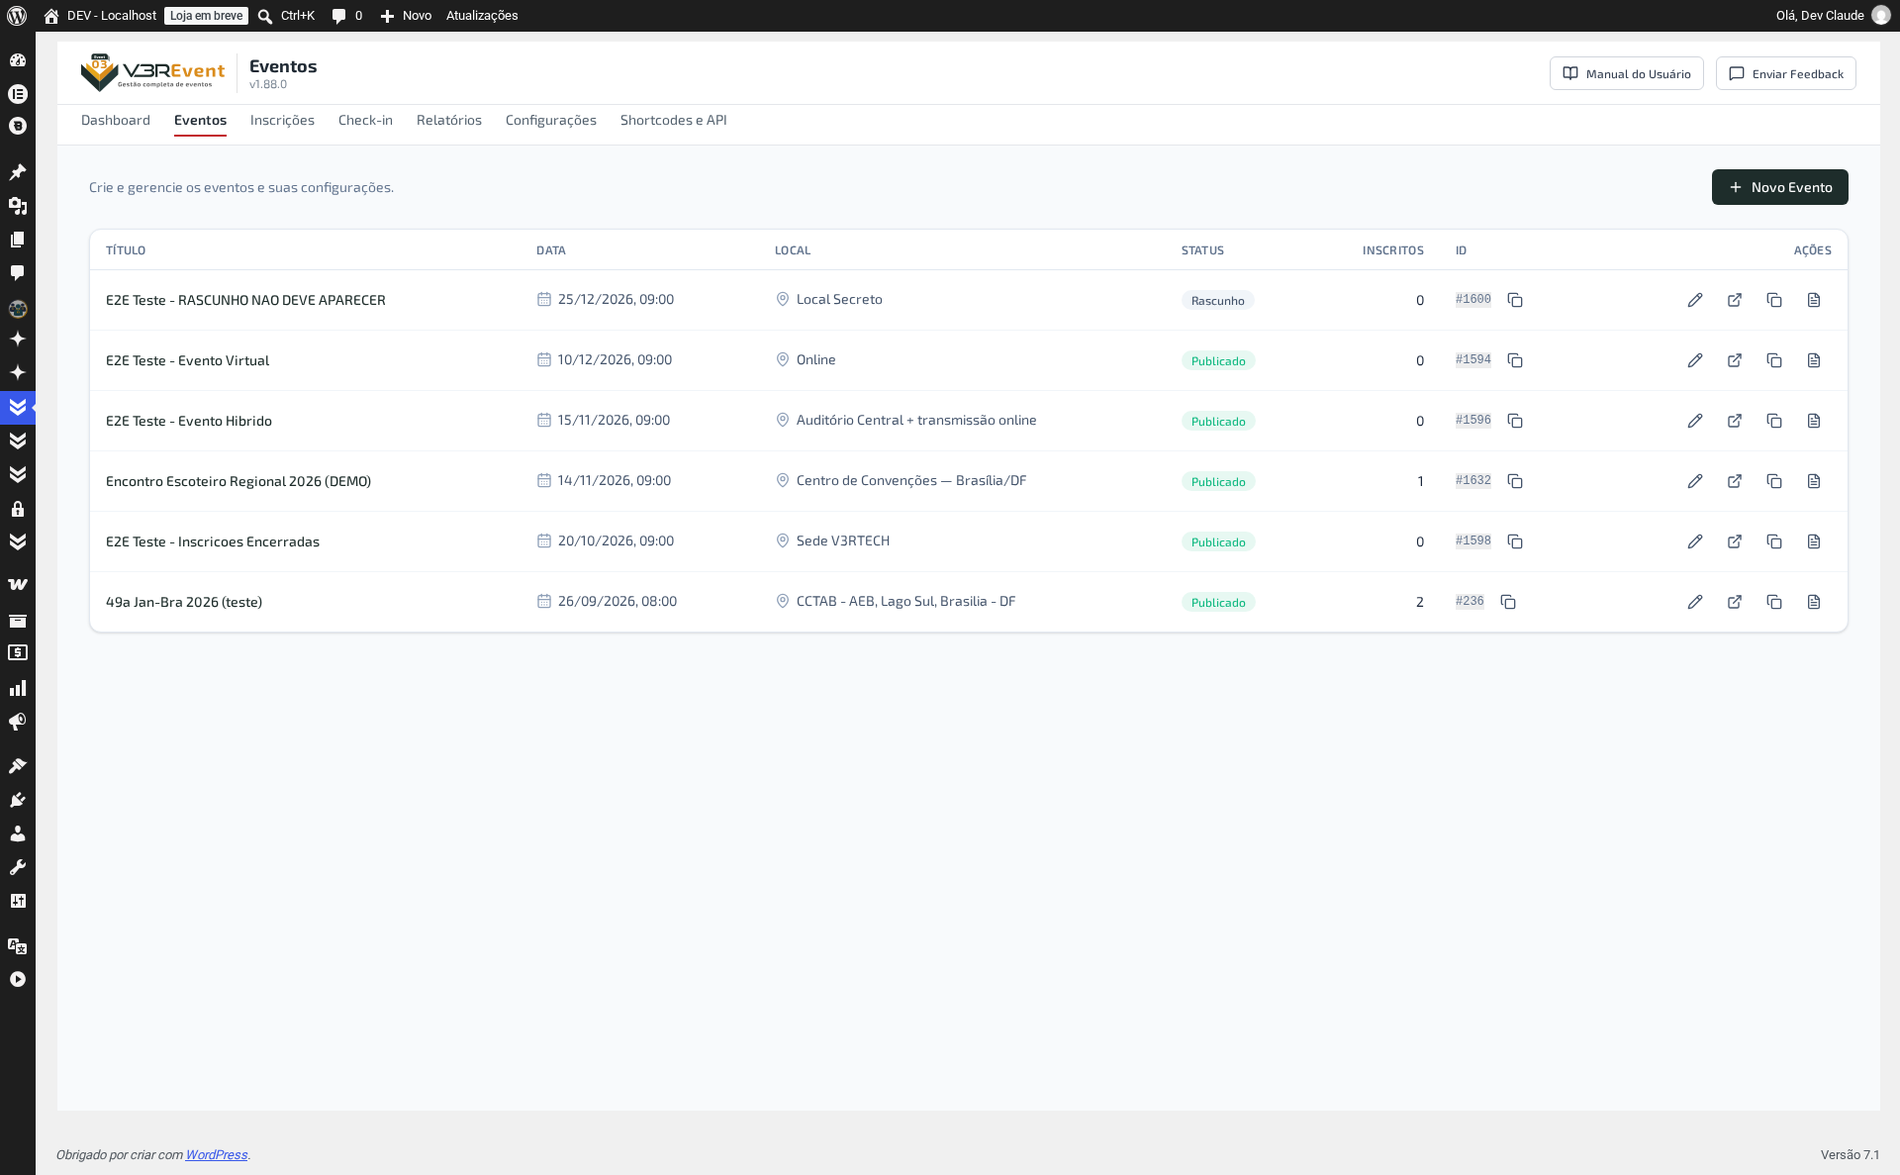
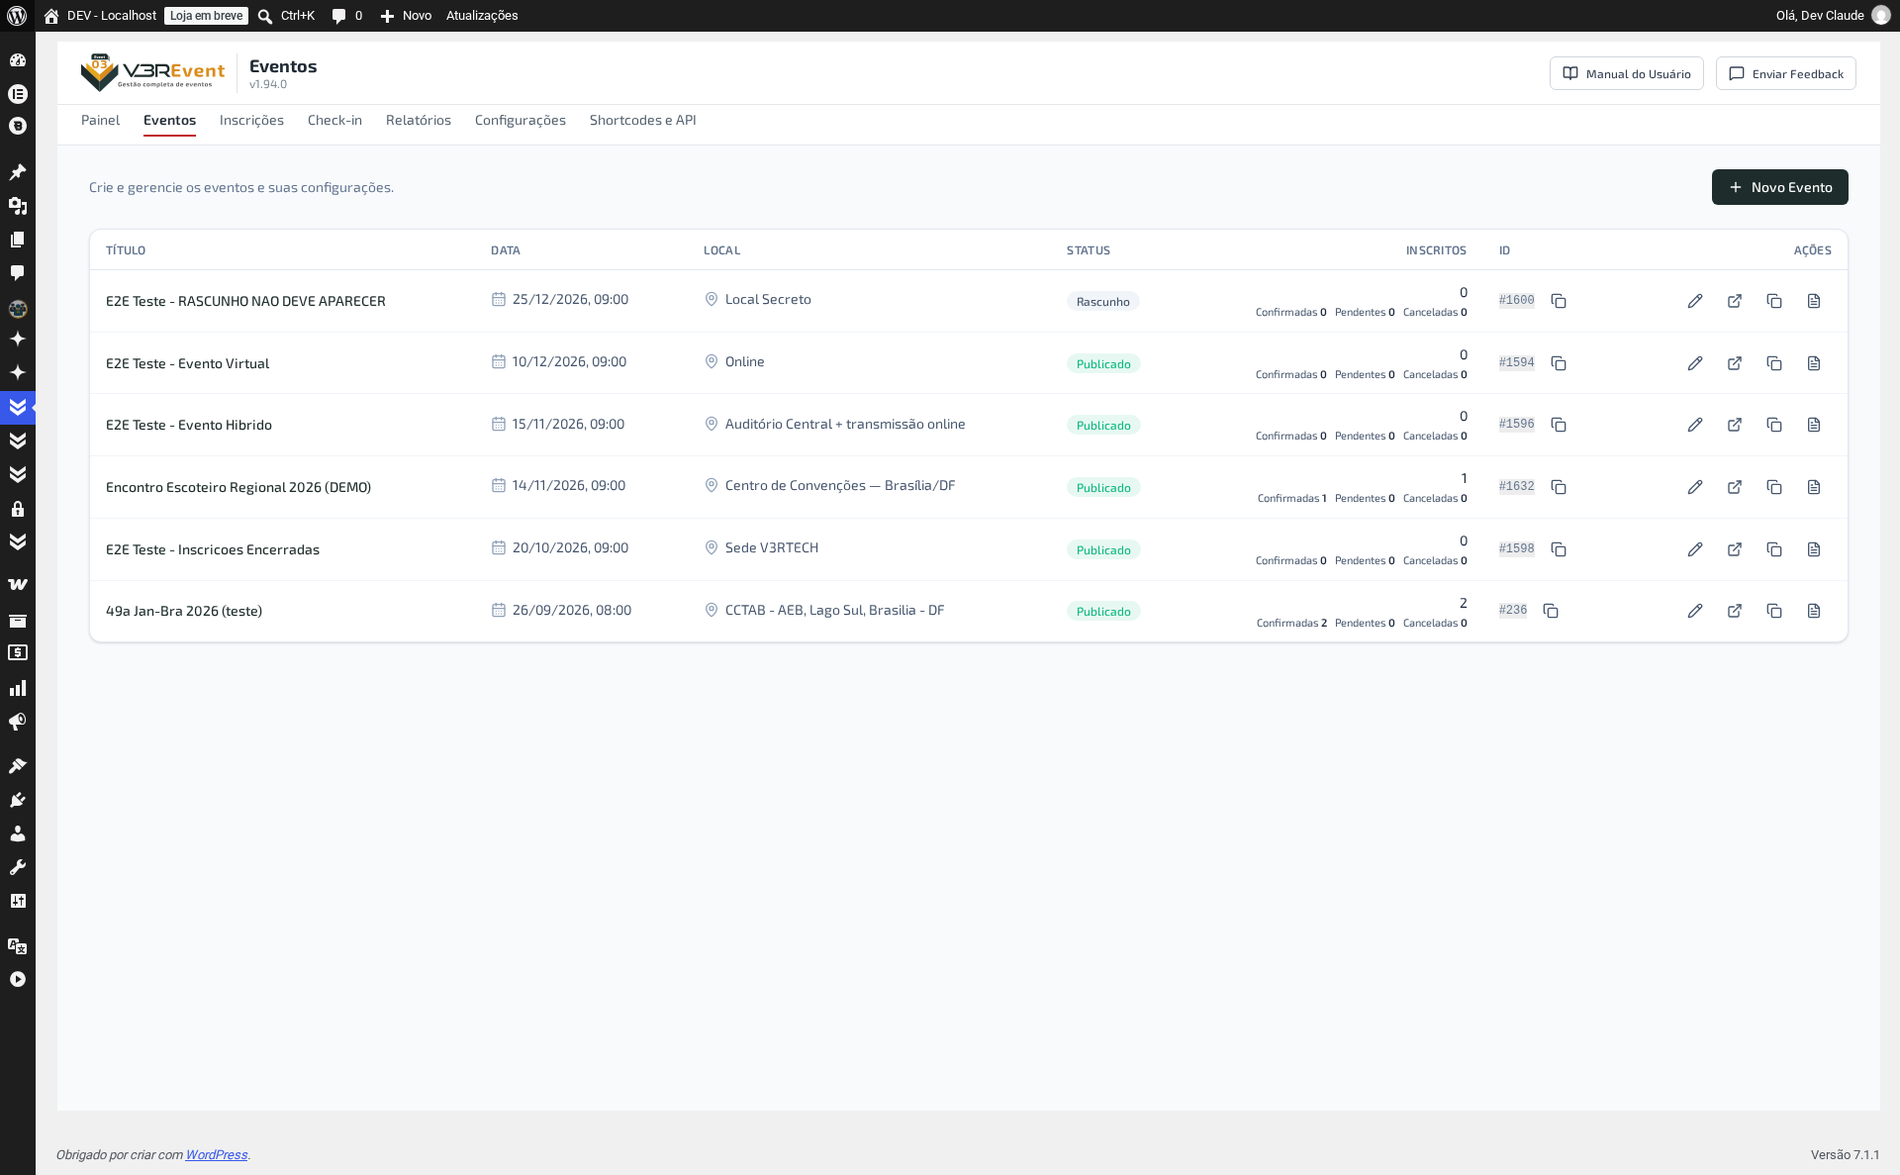
docs: categoria do evento e contagem de inscritos (v1.92.0–v1.94.0)
- editor-evento: a aba WooCommerce ganhou a documentação do campo "Categoria na
  prestação de contas", que existia desde a v1.73.x e nunca tinha sido escrita —
  os dois grupos da lista, o aviso de nome parecido, e o ponto contraintuitivo de
  que escolher uma categoria SOMA à classificação em vez de substituir.
- relatorios / eventos / faq: "Total de inscritos" agora bate entre as telas, e a
  distinção de maior risco ficou explicada com exemplo numérico — quem está com
  pagamento pendente CONTINUA ocupando vaga, então um evento pode mostrar 40
  confirmados e estar lotado. Apontadas as duas telas que contam diferente de
  propósito (exportação e e-mail por pedido).
- configuracoes: corrigido erro pré-existente — o e-mail de relatório é por
  inscrição, não do evento inteiro. Conferido no código, não deduzido.
- novidades: entrada das três versões.
- Capturas novas do editor (desktop, celular e o aviso em ação), Relatórios e
  lista de Eventos, feitas no evento demo, sem dado pessoal.

diff --git a/modulos/editor-evento.md b/modulos/editor-evento.md
@@ -488,8 +488,8 @@ O relatório é gerado **sob demanda** (não fica armazenado) e é um **download
 
 Todas as páginas trazem **cabeçalho** com a logo (ou nome) da sua organização e **rodapé** com o evento e a numeração ("página X de Y"). Títulos de seção e destaques seguem as **cores da sua organização** (a mesma cascata evento → organização → marca usada no formulário público). Os indicadores de **inscritos e presença** aparecem lado a lado, cada número junto do seu rótulo, com uma nota explicando o cálculo — pensados para não serem lidos errado numa leitura rápida.
 
-{: .important }
-> **"Total de inscritos" aqui soma todas as situações** (confirmados, pendentes e cancelados) — o mesmo vale para o **[e-mail de relatório](/modulos/configuracoes/#e-mails)** enviado ao responsável. É diferente do número grande do **[Painel](/modulos/painel/)**, que conta só confirmados. Veja a explicação completa em **[Relatórios → Indicadores do evento](/modulos/relatorios/#indicadores-do-evento)**.
+{: .note }
+> **"Total de inscritos" aqui conta só quem está confirmado**, igual ao **[Painel](/modulos/painel/)** e à tela **[Relatórios](/modulos/relatorios/#indicadores-do-evento)** — com a divisão por situação (confirmados, pendentes, cancelados) logo abaixo do número. As três telas de gestão dizem a mesma coisa desde a v1.94.0; antes, este PDF somava todas as situações e podia mostrar um número diferente do Painel para o mesmo evento.
 
 ### Modo de exibição da descrição
 
@@ -506,12 +506,44 @@ A **descrição do evento** — a mesma que aparece formatada na página públic
 
 ## WooCommerce
 
-Mostra o **produto vinculado** ao evento (criado automaticamente ao publicar) e o **shortcode** do formulário — ex.: `[v3revent_registration event_id="123"]` — com um botão para copiar.
+Mostra o **produto vinculado** ao evento (criado automaticamente ao publicar), a **categoria na prestação de contas** e o **shortcode** do formulário — ex.: `[v3revent_registration event_id="123"]` — com um botão para copiar.
 
 ![Aba WooCommerce do editor de evento](/assets/screenshots/evento-editor-woocommerce.png)
 
 {: .note }
 > Você não precisa editar esse produto no WooCommerce: ele é oculto do catálogo e tem o preço controlado pelas faixas do evento. Mexer nele manualmente pode causar inconsistências.
+
+### Categoria na prestação de contas
+
+É essa categoria que faz a receita do evento chegar **classificada** na prestação de contas financeira da organização — sem ela, todo o dinheiro entrado pelo V3REvent cairia misturado, e separar por evento na hora de fechar as contas viraria trabalho manual.
+
+**Sem mexer em nada**, o comportamento é o de sempre: ao publicar o evento, o plugin **cria sozinho** uma categoria com o nome do evento. Você só precisa abrir esta aba se quiser **reaproveitar** uma categoria que a loja já tem — por exemplo, para juntar vários eventos de uma mesma campanha ou série sob a mesma classificação.
+
+O campo **Categoria na prestação de contas** lista as opções em dois grupos: primeiro as **categorias de evento** já criadas por outros eventos seus, depois as **demais categorias da loja** (incluindo as que não têm nada a ver com eventos — doações, produtos, rifas). Escolher uma delas **soma** a este evento a classificação daquela categoria; não é uma troca exclusiva.
+
+Acima do seletor, a linha **Hierarquia atual** mostra onde a categoria escolhida fica dentro da árvore da loja (ex.: **Eventos › Encontro Escoteiro Regional 2026**). Quando o evento está classificado em **mais de uma** categoria, essa linha lista todas — é o sinal visual de que a escolha aqui soma, não substitui.
+
+{: .important }
+> **Escolher uma categoria não tira o evento das outras em que ele já estava.** Se o evento já tinha uma classificação (por exemplo, a automática, criada com o nome dele) e você escolhe reaproveitar outra, as duas passam a valer — a receita entra classificada nas duas ao mesmo tempo. Isso é contraintuitivo para quem espera uma troca. Confira a linha **Hierarquia atual** depois de salvar para ver exatamente o que ficou valendo.
+
+#### Criar uma categoria nova
+
+Digite o nome no campo **Nome da nova categoria** e clique em **Criar nova categoria**. Ela entra na lista acima e já fica selecionada — **não esqueça de Salvar** para aplicá-la ao produto do evento.
+
+**Se o nome for parecido com uma categoria que a loja já tem**, o V3REvent avisa **antes de criar** e mostra a candidata, com o botão **Usar esta** para reaproveitar, ou **Criar assim mesmo uma segunda categoria** se a intenção era mesmo ter duas. "Parecido" cobre diferença só de **maiúsculas, acentos ou espaços** — digitar `GEJAFEST` quando a loja já tem `GEJAFest` dispara o aviso, mesmo com a grafia diferente.
+
+![Aviso de categoria parecida com uma que a loja já tem, oferecendo reaproveitar](/assets/screenshots/evento-editor-woocommerce-categoria-duplicada.png)
+
+![Aba WooCommerce do editor de evento, aberta no celular](/assets/screenshots/evento-editor-woocommerce-mobile.png)
+
+{: .example }
+> **Exemplo:** a Escola Vitória cadastra o evento "Feira de Ciências 2026" e digita a categoria `Feira de Ciências`. A loja já tem `feira de ciências` (criada meses antes, em minúsculas, por outro evento). O aviso aparece, a coordenadora clica em **Usar esta**, e a receita dos dois eventos passa a entrar na mesma categoria — exatamente o que ela queria, sem duplicar a árvore da loja.
+
+{: .tip }
+> **Reaproveite categorias quando eventos formam uma série ou campanha.** Uma corrida anual, um festival com várias edições, um conjunto de encontros da mesma diretoria — juntar tudo numa categoria só facilita comparar arrecadação entre edições na prestação de contas. Para eventos avulsos e sem relação entre si, a categoria automática (uma por evento) já é o comportamento certo, e você não precisa tocar neste campo.
+
+{: .note }
+> **Um número entre parênteses ao lado do nome da categoria não é erro.** Ele aparece quando a loja já tinha outra categoria com o mesmo **identificador interno** (slug) e o WooCommerce precisou diferenciar as duas — é informação de bastidor, não uma falha. A categoria continua funcionando normalmente na prestação de contas.
 
 ## Equipe
 

diff --git a/novidades.md b/novidades.md
@@ -12,13 +12,22 @@ O que mudou no V3REvent, em linguagem simples — **da mais recente para a mais 
 
 ---
 
+## "Total de inscritos" passa a dizer a mesma coisa em toda tela, e a categoria da prestação de contas fica mais esperta
+**v1.92.0 a v1.94.0 · setembro de 2026**
+
+- **"Total de inscritos" agora conta só confirmados em toda tela de gestão** — Painel, Eventos, Relatórios, o **[relatório do evento em PDF](/modulos/editor-evento/#relatório)** e o e-mail de andamento. Antes, só o Painel contava assim; as outras somavam pendentes e cancelados junto, e o mesmo evento podia mostrar dois números diferentes com o mesmo nome — a dúvida que motivou esta mudança veio de uma organizadora. Nenhum número sumiu: a divisão por situação (Confirmadas, Pendentes, Canceladas), logo abaixo do número grande, continua somando o total de sempre.
+- **Atenção: vaga ocupada continua sendo outra conta.** Quem está com pagamento **pendente** continua ocupando vaga — um evento pode mostrar poucos confirmados e já estar com a capacidade esgotada, porque há gente com pagamento em andamento segurando lugar. Isso é de propósito. Veja **[Relatórios → Indicadores do evento](/modulos/relatorios/#indicadores-do-evento)** e a pergunta correspondente no **[FAQ](/faq/)**.
+- **A [categoria na prestação de contas](/modulos/editor-evento/#categoria-na-prestação-de-contas)** (aba WooCommerce do editor de evento) agora **lista as categorias que a loja já tem**, para reaproveitar em vez de criar uma nova toda vez — antes só apareciam as categorias de evento. E **criar uma categoria com nome parecido com uma que já existe** (diferença só de maiúsculas, acentos ou espaços) passa a **avisar antes de criar**, com a opção de reaproveitar a existente.
+
+Veja **[Painel](/modulos/painel/)**, **[Eventos](/modulos/eventos/)**, **[Relatórios](/modulos/relatorios/)** e **[Editor de evento → WooCommerce](/modulos/editor-evento/#woocommerce)**.
+
 ## O Painel passa a mostrar só confirmados no número grande, com a divisão por situação logo abaixo
 **v1.91.0 · setembro de 2026**
 
 - **"Total de inscritos" e "Total de inscrições" agora contam só quem está confirmado.** Antes, os dois números somavam também pendentes e cancelados. Nenhum número some: logo abaixo de cada cartão, uma **divisão por situação** mostra Confirmados, Pendentes e Cancelados — a soma das três continua batendo com o total de sempre.
 - **O gráfico "Inscritos por mês" passou a se chamar "Inscritos confirmados por mês"**, e a lista de últimos eventos no Painel agora mostra os **inscritos confirmados** de cada um.
 - **A diferença entre "inscrição" (o pedido) e "inscrito" (cada pessoa dele) agora aparece explicada na própria tela** — no Painel, em Inscrições, na aba Inscritos do editor de evento e em Relatórios.
-- **Atenção:** em **Relatórios**, no **relatório do evento em PDF** e no **e-mail de relatório** enviado ao responsável, "Total de inscritos" **continua somando todas as situações**, incluindo pendentes e cancelados — por isso esse número pode ser maior que o do Painel para o mesmo evento. Veja **[Painel](/modulos/painel/)**, **[Inscrições](/modulos/inscricoes/)** e **[Relatórios](/modulos/relatorios/#indicadores-do-evento)**.
+- **Até a v1.93.x:** em **Relatórios**, no **relatório do evento em PDF** e no **e-mail de andamento**, "Total de inscritos" continuava somando todas as situações, incluindo pendentes e cancelados — por isso esse número podia ser maior que o do Painel para o mesmo evento. **A partir da v1.94.0, as duas telas dizem a mesma coisa** — veja a novidade mais recente, no topo desta página. Veja **[Painel](/modulos/painel/)**, **[Inscrições](/modulos/inscricoes/)** e **[Relatórios](/modulos/relatorios/#indicadores-do-evento)**.
 
 {: .tip }
 > **Quer saber quantas pessoas estão confirmadas num evento específico?** Filtre a lista de **[Inscrições](/modulos/inscricoes/)** por **Confirmada**.

diff --git a/modulos/relatorios.md b/modulos/relatorios.md
@@ -15,12 +15,20 @@ A tela **Relatórios** aprofunda um evento: indicadores, a lista completa de par
 
 ## Indicadores do evento
 
-Ao selecionar um evento, você vê os números dele: **inscritos**, **pagos**, **aguardando** e **receita**. A receita já considera as trocas de modalidade — devoluções descontadas, diferenças pagas somadas (veja **[Painel → O que entra na Receita total](/modulos/painel/)**).
+Ao selecionar um evento, você vê os números dele: **total de inscritos**, **total de inscrições** e **receita**. Igual ao **[Painel](/modulos/painel/)**, o número grande de cada cartão conta só quem está **confirmado**, com a divisão por situação (**Confirmadas**, **Pendentes**, **Canceladas**) logo abaixo. A receita já considera as trocas de modalidade — devoluções descontadas, diferenças pagas somadas (veja **[Painel → O que entra na Receita total](/modulos/painel/)**).
+
+{: .note }
+> **Desde a v1.94.0, "Total de inscritos" diz a mesma coisa em toda tela de gestão** — Painel, Relatórios, o **[Relatório do evento em PDF](/modulos/editor-evento/#relatório)** e o e-mail de andamento das inscrições. Antes, só o Painel contava assim; as outras telas somavam pendentes e cancelados junto, e o mesmo evento podia mostrar dois números diferentes com o mesmo nome. Nenhum número sumiu: a soma da divisão por situação é o total de antes.
 
 {: .important }
-> **Aqui, "Total de inscritos" soma todas as situações — diferente do Painel.** No **[Painel](/modulos/painel/)**, o número grande de "Total de inscritos" conta só quem está **confirmado**. Aqui em Relatórios (e também no **[Relatório do evento em PDF](/modulos/editor-evento/#relatório)** e no **[e-mail de relatório](/modulos/configuracoes/#e-mails)** enviado ao responsável), o total continua somando **pendentes e cancelados** junto com os confirmados — por isso o número desta tela pode ser **maior** que o do Painel para o mesmo evento. Não é um erro: são duas perguntas diferentes ("quantos já confirmaram" × "quantos já passaram pelo formulário, de um jeito ou de outro").
+> **"Total de inscritos" confirmados não é o mesmo que "vagas ocupadas".** A capacidade do evento continua contando **toda** inscrição, inclusive a **pendente de pagamento** — é assim de propósito, para não liberar o lugar de quem já iniciou o pagamento. Um evento com capacidade para 50 pode mostrar "Total de inscritos: 40" (confirmados) e já estar com as vagas esgotadas, porque há 10 pedidos pendentes segurando lugar. Veja **[Durante as inscrições → Entenda os status de uma inscrição](/guia-do-gestor/durante-as-inscricoes/#entenda-os-status-de-uma-inscrição)**.
 >
 > **Quer só os confirmados de um evento específico?** Filtre a lista de **[Inscrições](/modulos/inscricoes/)** por esse evento e por status **Confirmada** — veja **[Inscrições → Filtros e busca](/modulos/inscricoes/#filtros-e-busca)**.
+
+Duas telas continuam contando "total de inscritos" de um jeito diferente, também de propósito:
+
+- a **lista de participantes que você exporta** conta as **linhas do arquivo** — ou seja, todas as pessoas, de qualquer situação;
+- o **e-mail de relatório** enviado ao responsável de uma inscrição conta só as **pessoas daquele pedido**, não do evento inteiro (veja **[Configurações → E-mails](/modulos/configuracoes/#e-mails)**).
 
 ## Tabela de participantes
 

diff --git a/faq.md b/faq.md
@@ -30,16 +30,32 @@ pergunta.
 <summary>Qual a diferença entre "Total de inscritos" e "Total de inscrições"?</summary>
 
 **Total de inscritos** conta pessoas; **Total de inscrições** conta pedidos. Uma
-inscrição de grupo soma 1 no segundo número e várias no primeiro. No **Painel**,
-os dois números grandes contam só quem está **confirmado** — pendentes e
-cancelados aparecem na divisão por situação, logo abaixo de cada cartão, sem
-sumir. Já em **Relatórios**, no **relatório do evento em PDF** e no **e-mail de
-relatório** enviado ao responsável, o total continua somando **todas as
-situações** (confirmados, pendentes e cancelados) — por isso esse número pode ser
-maior que o do Painel para o mesmo evento. Para saber quantas
-pessoas estão confirmadas num evento específico, filtre a lista de
+inscrição de grupo soma 1 no segundo número e várias no primeiro. Desde a
+v1.94.0, os dois números grandes contam só quem está **confirmado** em **toda**
+tela de gestão — Painel, Eventos, Relatórios, o relatório do evento em PDF e o
+e-mail de andamento — com a divisão por situação (Confirmadas, Pendentes,
+Canceladas) logo abaixo de cada cartão, sem nenhum número sumir. Para saber
+quantas pessoas estão confirmadas num evento específico, filtre a lista de
 **[Inscrições](/modulos/inscricoes/)** por **Confirmada**. Veja
 **[Painel](/modulos/painel/)** e **[Relatórios](/modulos/relatorios/#indicadores-do-evento)**.
+
+Duas telas contam diferente, de propósito: a **lista de participantes exportada**
+conta todas as linhas do arquivo (qualquer situação), e o **e-mail de relatório**
+enviado ao responsável de uma inscrição conta só as pessoas **daquele pedido**,
+não do evento inteiro.
+</details>
+
+<details markdown="1">
+<summary>Meu evento mostra poucos inscritos confirmados, mas as vagas já esgotaram. Por quê?</summary>
+
+Porque **vaga ocupada** e **inscrito confirmado** são duas contagens diferentes,
+de propósito. O "Total de inscritos" conta só quem já **pagou**; a capacidade do
+evento conta **toda** inscrição, inclusive a que está **pendente de pagamento** —
+para não liberar o lugar de alguém que já iniciou o processo. Um evento para 50
+pessoas pode mostrar "Total de inscritos: 40" e já estar lotado, porque há 10
+pedidos pendentes segurando vaga. Revise os pendentes antigos periodicamente: se
+muitos forem carrinho abandonado, a capacidade parece mais cheia do que está de
+fato. Veja **[Durante as inscrições](/guia-do-gestor/durante-as-inscricoes/)**.
 </details>
 
 <details markdown="1">

diff --git a/modulos/configuracoes.md b/modulos/configuracoes.md
@@ -32,7 +32,7 @@ Os templates da comunicação automática — sete, cada um com **assunto** e **
 
 - **Remetente** (nome e e-mail), no topo, vale para os sete;
 - **E-mail de confirmação** (participante) — enviado a cada participante ao confirmar a inscrição;
-- **E-mail de relatório** (responsável) — enviado ao responsável, com o resumo e o anexo dos inscritos;
+- **E-mail de relatório** (responsável) — enviado a quem fez **aquela inscrição**, com o resumo e o anexo em CSV **dos participantes daquele pedido**, não do evento inteiro. Não confunda com o **e-mail de andamento**, que a coordenação liga por evento e traz o resumo agregado de todas as inscrições (confirmadas, pendentes, canceladas, vagas restantes e valor arrecadado);
 - **E-mail de acesso à área do inscrito** — enviado a quem pede o link na **[Área do Inscrito](/modulos/area-do-inscrito/)**, informando o e-mail usado na inscrição;
 - **E-mail do recibo** (responsável) — enviado automaticamente a quem pagou, assim que a inscrição é confirmada, quando o recibo está ligado nas Configurações. Vai com o PDF do recibo em anexo;
 - **E-mail da credencial** (participante) — enviado ao próprio participante quando o evento oferece credencial e pede o envio automático. Vai com o PDF da credencial em anexo;

diff --git a/modulos/eventos.md b/modulos/eventos.md
@@ -18,7 +18,7 @@ A tela **Eventos** lista todos os eventos da organização e é o ponto de parti
 | **Data** | A data de início. |
 | **Local** | Onde acontece. |
 | **Status** | Rascunho, publicado etc. |
-| **Nº de inscritos** | Quantas pessoas já se inscreveram. |
+| **Inscritos** | Quantas pessoas já **confirmaram** presença, com a divisão por situação (Confirmadas, Pendentes, Canceladas) logo abaixo — mesma regra do **[Painel](/modulos/painel/)** e de **[Relatórios](/modulos/relatorios/#indicadores-do-evento)**. |
 | **ID** | O número do evento, com um botão para **copiar o shortcode de inscrição** pronto (`[v3revent_registration id="…"]`) — útil para colar o formulário em outra página. Veja **[Shortcodes e API](/modulos/shortcodes-e-api/)**. |
 | **Ações** | **Editar**, **Ver página** (abre a página pública do evento; em rascunho, **Pré-visualizar**), **Duplicar** e **Gerar relatório do evento (PDF)** — ícones com dica ao passar o mouse. |
 
